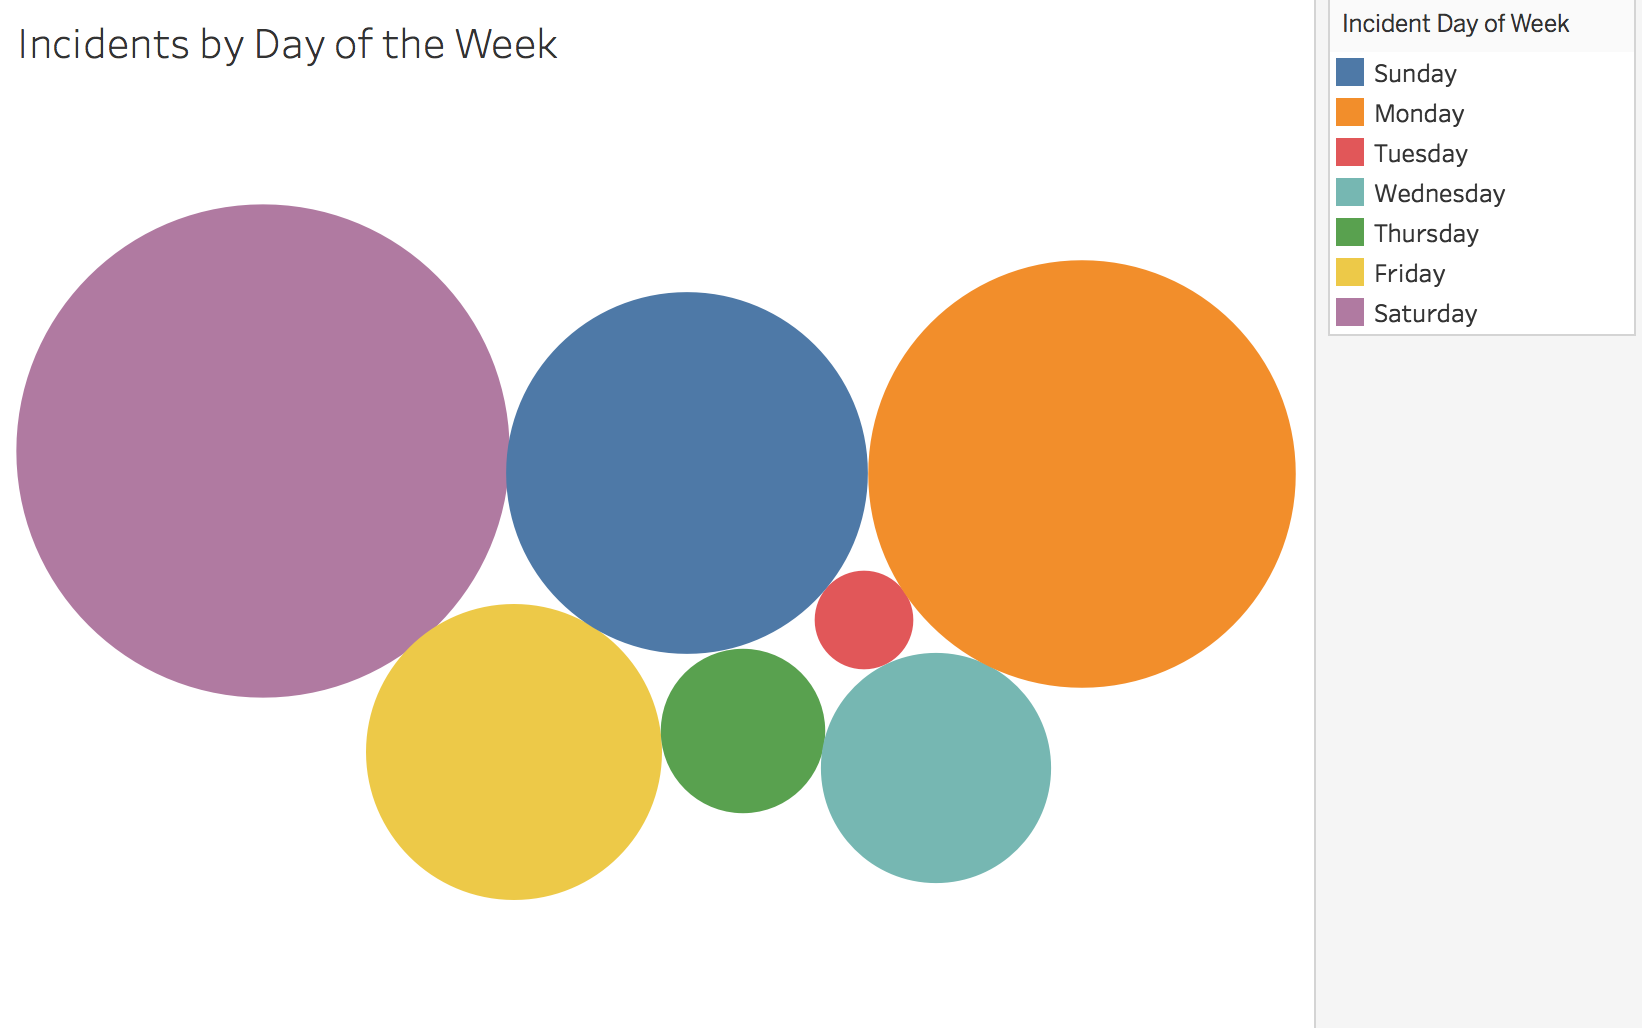
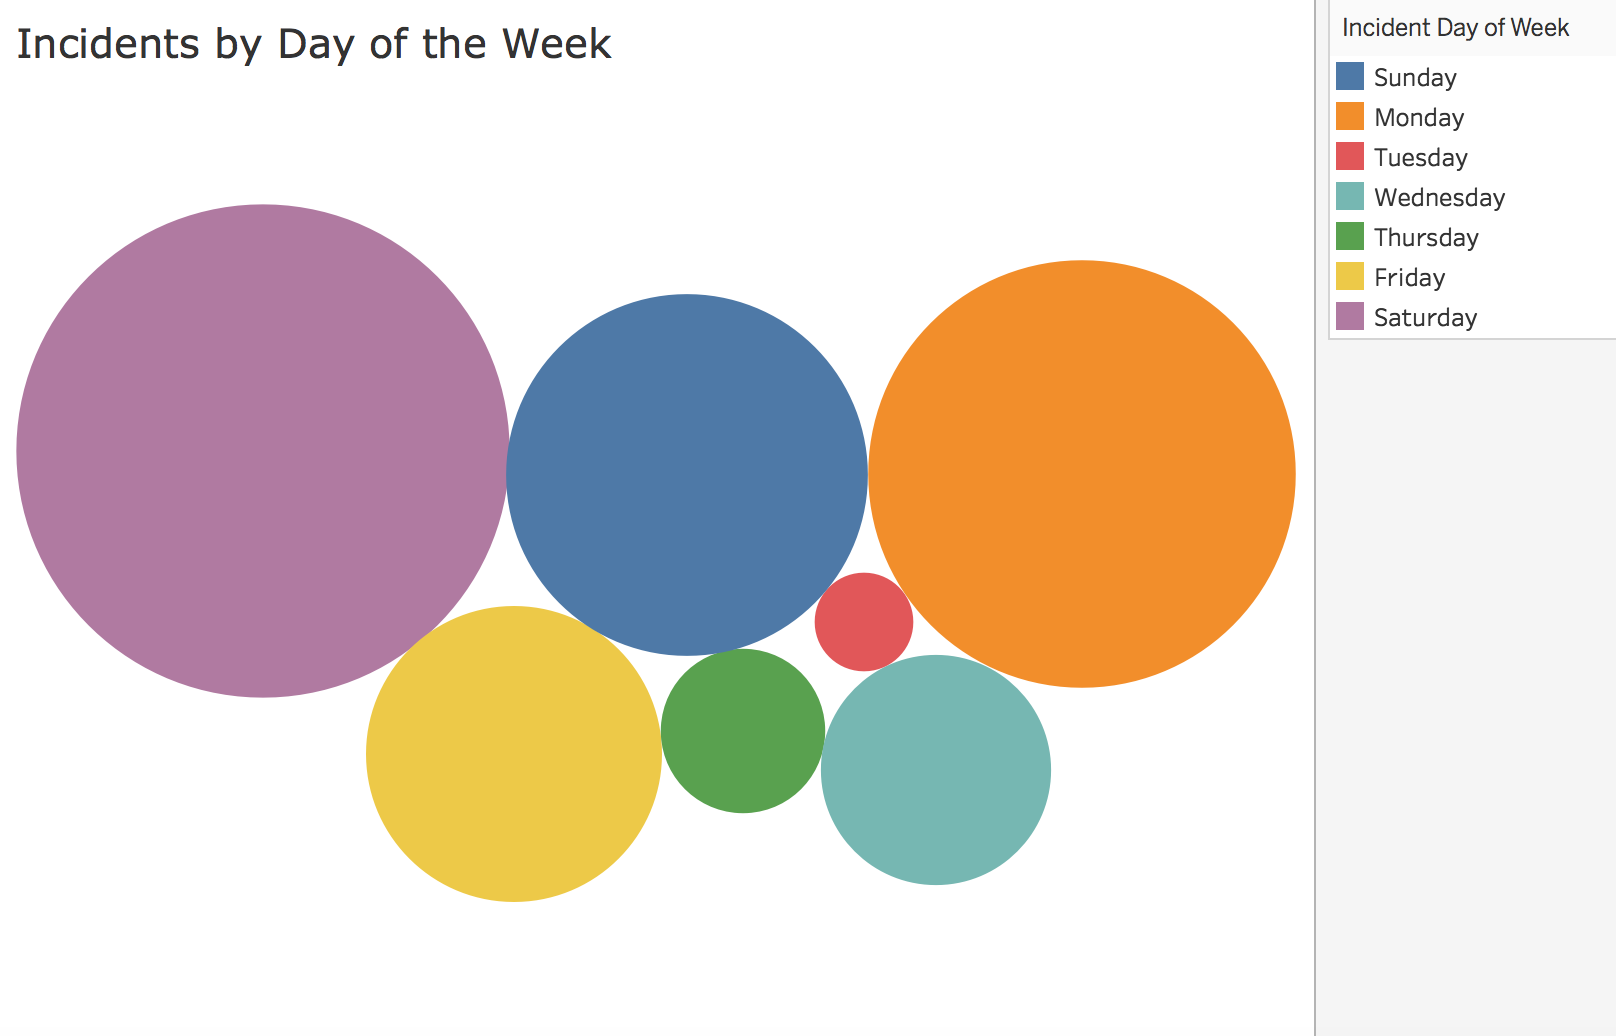
adding text

diff --git a/svg3.js b/svg3.js
@@ -25,7 +25,7 @@ var drawLine = function(){
         top:    50,
         right:  45, // leave space for y-axis
         bottom: 40, // leave space for x-axis
-        left:   20
+        left:   30
     };
 
     let bounds = svg.node().getBoundingClientRect();
@@ -41,7 +41,7 @@ var drawLine = function(){
 
     var x = d3.scaleBand()
         .domain(days)
-        .rangeRound([0, plotWidth]);
+        .rangeRound([45, plotWidth]);
 
     var y = d3.scaleLinear()
         .domain([countMin,countMax])
@@ -57,7 +57,7 @@ var drawLine = function(){
         plot.attr("transform", "translate(" + margin.left + "," + margin.top + ")");
     }
 
-    var yAxis = d3.axisLeft(y);
+    var yAxis = d3.axisLeft(y).ticks(10);
     var xAxis = d3.axisBottom(x);
 
 
@@ -90,87 +90,31 @@ var drawLine = function(){
         .y(function(d) { return y(d.value); })
 
     var dayentries = dayMap.entries();
-    graph.append("path").attr("class", "line").attr("d", valueline(dayentries));;
+    graph.append("path").attr("class", "line").attr("d", valueline(dayentries));
 
-}
+    svg.append("text")
+        .attr("x", 15)
+        .attr("y", 0 + (margin.top / 2))
+        .style("font-size", "17pt")
+        .style("font-family", "'Roboto', sans-serif")
+        .text("Number of Incidents by Date");
 
+    svg.append("text")
+        .attr("x", (plotWidth / 1.8))
+        .attr("y", 0 + (margin.top))
+        .attr("text-anchor", "middle")
+        .style("font-size", "14px")
+        .style("font-family", "'Roboto', sans-serif")
+        .text("Incident date");
 
-// dayMap = d3.map();
-// d3.csv("incident12-1.csv").then(function(d){
-//
-//     var parsedData = parseData(d)
-//     drawLine(parsedData)
-// });
-//
-// function parseData(data) {
-//     var arr = [];
-//     incedentDateParse = d3.timeParse("%Y/%m/%d");
-//
-//
-//     for(var i in data){
-//         var date = incedentDateParse(data[i]["Incident Date"])
-//         if (date !== null){
-//             arr.push(
-//                 {
-//                     date: date.getDate(), //date
-//                     value: 1 //convert string to number
-//                 });
-//         }
-//     }
-//
-//     return arr;
-// }
-//
-// function drawLine(data){
-//     var margin = { top: 20, right: 20, bottom: 30, left: 50 };
-//     var svg = d3.select('svg');
-//
-//     let bounds = svg.node().getBoundingClientRect();
-//     var width = bounds.width - margin.right - margin.left;
-//     var height = bounds.height - margin.top - margin.bottom;
-//
-//         svg.attr("width", width)
-//         .attr("height", height);
-//
-//     // var g = svg.append("g")
-//     //     .attr("transform",
-//     //         "translate(" + margin.left + "," + margin.top + ")"
-//     //     );
-//     //
-//     // // var x = d3.scaleTime().rangeRound([0, width]);
-//     // // var y = d3.scaleLinear().rangeRound([height, 0]);
-//     //
-//     // var x = d3.scaleTime()
-//     //     .domain(days)
-//     //     .rangeRound([0, width]);
-//     //
-//     // var y = d3.scaleLinear()
-//     //     .domain([countMax, countMin])
-//     //     .range([height, 0])
-//     //     .nice();
-//     //
-//     // var yaxis = d3.axisLeft(y);
-//     // var xaxis = d3.axisBottom(x);
-//     //
-//     // var line = d3.line()
-//     //     .x(function(d) { return x(d.date)})
-//     //     .y(function(d) { return y(d.value)})
-//     // // x.domain(d3.extent(data, function(d) { return d.date }));
-//     // // y.domain(d3.extent(data, function(d) { return d.value }));
-//     //
-//     // g.append("g")
-//     //     .attr("transform", "translate(0," + height + ")")
-//     //     .call(d3.axisBottom(x))
-//     //     .select(".domain")
-//     //     .remove();
-//     //
-//     // g.append("g")
-//     //     .call(d3.axisLeft(y))
-//     //     .append("text")
-//     //     .attr("fill", "#000")
-//     //     .attr("transform", "rotate(-90)")
-//     //     .attr("y", 6)
-//     //     .attr("dy", "0.71em")
-//     //     .attr("text-anchor", "end")
-//     //     .text("Price ($)");
-// }
+    svg.append("text")
+        .attr("transform", "rotate(-90)")
+        .attr("y",  10)
+        .attr("x",0 - (plotHeight / 2)-55)
+        .attr("dy", "1em")
+        .style("text-anchor", "middle")
+        .style("font-size", "10pt")
+        .style("font-family", "'Roboto', sans-serif")
+        .text("Number of Records");
+
+};

diff --git a/svg2.js b/svg2.js
@@ -5,6 +5,10 @@ d3.csv("incident12-1.csv", dayOfWeekRow).then(function(d){
 });
 
 
+/*
+ sources:
+ https://bl.ocks.org/carlvlewis/53d42df2300231c1daacdaf9067043c0
+*/
 
 var drawBubbleMap = function(){
     var svg = d3.select("body").select("svg");
@@ -38,30 +42,60 @@ var drawBubbleMap = function(){
         .data(pack(root).leaves())
         .enter().append("g")
         .attr("class", "node")
-        .attr("transform", function(d) { return "translate(" + d.x + "," + d.y + ")"; });
+        .attr("transform", function(d, i) {
+            console.log("x "+d.x+" " + "y "+d.y)
+            switch (d.data.key){
+                case "Saturday":
+                    return "translate(" + (d.x-35) + "," + d.y + ")";
+                case "Sunday":
+                    return "translate(" + (d.x-3) + "," + d.y + ")";
+                case "Monday":
+                    return "translate(" + (d.x+220) + "," + (d.y-122) + ")";
+                case "Tuesday":
+                    return "translate(" + (d.x+135) + "," + (d.y+180) + ")";
+                case "Wednesday":
+                    return "translate(" + (d.x+320) + "," + (d.y+260) + ")";
+                case "Thursday":
+                    return "translate(" + (d.x-18   ) + "," + (d.y+245) + ")";
+                case "Friday":
+                    return "translate(" + (d.x+145) + "," + (d.y-5) + ")";
+                default:
+                    break;
+            }
+        });
 
     node.append("circle")
         .attr("id", function(d) {
             console.log(d.id)
             return d.id; })
         .attr("r", function(d) {
-            console.log(d.data.key+ " "+ d.r);
-            return d.r;
+            switch (d.data.key) {
+                case "Saturday":
+                    return (1.45*(d.r));
+                case "Sunday":
+                    return d.r;
+                case "Monday":
+                    return (1.2*(d.r));
+                case "Tuesday":
+                    return (.4*(d.r));
+                case "Wednesday":
+                    return (.79*(d.r));
+                case "Thursday":
+                    return (.55*(d.r));
+                case "Friday":
+                    return (.95*(d.r));
+                default:
+                    break;
+            }
         })
         .style("fill", function(d) { return color(d.data.key); });
-
-    node.append("text")
-        .text(function(d) {
-            if (d.data.value > 748){
-                return d.data.key;
-            }
-            return "";});
 
     var legend = svg.selectAll(".legend")
         .data(data).enter()
         .append("g")
         .attr("class","legend")
-        .attr("transform", "translate(" + 780 + "," + 120+ ")");
+        .attr("transform", "translate(" + 750 + "," + 80+ ")")
+
 
 
     legend.append("rect")
@@ -87,4 +121,11 @@ var drawBubbleMap = function(){
         .attr("y",-10)
         .text("Days of the Week")
         .attr("font-size", "17px");
+
+    svg.append("text")
+        .attr("x", 15)
+        .attr("y", 30)
+        .style("font-size", "17pt")
+        .style("font-family", "'Roboto', sans-serif")
+        .text("Incidents by Day of the Week");
 }

diff --git a/svg1.js b/svg1.js
@@ -46,7 +46,12 @@ var drawBarChart = function(){
     }
 
     let xAxis = d3.axisBottom(districtScale);
-    let yAxis = d3.axisLeft(countScale);
+    let yAxis = d3.axisLeft(countScale).ticks(5);
+
+    function make_y_gridlines() {
+        return d3.axisLeft(y)
+            .ticks(5)
+    }
 
     if (plot.select("g#y-axis").size() < 1) {
         let xGroup = plot.append("g").attr("id", "x-axis");
@@ -57,6 +62,7 @@ var drawBarChart = function(){
         let yGroup = plot.append("g").attr("id", "y-axis");
         yGroup.call(yAxis);
         yGroup.attr("transform", "translate(" + 45 + ",0)");
+
     } else {
         plot.select("g#y-axis").call(yAxis);
     }
@@ -96,9 +102,11 @@ var drawBarChart = function(){
     svg.append("text")
         .attr("transform", "rotate(-90)")
         .attr("y",  10)
-        .attr("x",0 - (plotHeight / 2)-45)
-        .attr("dy", "1em")
+        .attr("x",0 - (plotHeight / 2)-50)
+        .attr("dy", ".5em")
         .style("text-anchor", "middle")
+        .style("font-size", "10pt")
+        .style("font-family", "'Roboto', sans-serif")
         .text("Number of Records");
 
     // svg.append("text")
@@ -110,12 +118,19 @@ var drawBarChart = function(){
     //     .text("Value");
 
     svg.append("text")
-        .attr("x", (plotWidth / 2))
+        .attr("x", 15)
         .attr("y", 0 + (margin.top / 2))
+        .style("font-size", "17pt")
+        .style("font-family", "'Roboto', sans-serif")
+        .text("Police District Incident Count");
+
+    svg.append("text")
+        .attr("x", (plotWidth / 1.8))
+        .attr("y", 0 + (margin.top))
         .attr("text-anchor", "middle")
-        .style("font-size", "16px")
-        .style("text-decoration", "underline")
-        .text("Value vs Date Graph");
+        .style("font-size", "14px")
+        .style("font-family", "'Roboto', sans-serif")
+        .text("Police District");
 }
 
 d3.csv("incident12-1.csv", policeRow).then(function(d){

diff --git a/visualization2.html b/visualization2.html
@@ -16,6 +16,7 @@
   <script src="https://d3js.org/d3.v5.min.js"></script>
   <script src="base.js"></script>
   <script src="svg2.js"></script>
+  <link href="https://fonts.googleapis.com/css?family=Roboto" rel="stylesheet">
 
 </head>
 
@@ -115,19 +116,19 @@
     <h3>Interpretation</h3>
 
     <p>
-      If appropriate, provide a brief discussion of how to interpret this visualization (e.g. how the data is encoded) and how to interact with this visualization. Some of this discussion may not be necessary depending on the legends provided with the visualization.
+      Here I provided a legend to show you which circle is what day. The larger the circle, the more incidents that happend on that day.
     </p>
 
     <h3>Discussion</h3>
 
     <p>
-      If appropriate, provide a brief discussion of the primary goal and findings of the visualization, any challenges encountered creating the visualization, and any other context as required by the assignment.
+      Getting sizes and placement was very difficult in matching my tableu. You really need to think about x and y coordinate and where that point of reference is.
     </p>
 
     <h3>Credit</h3>
 
     <p>
-      If appropriate, provide credit for the dataset, any code used, and design inspirations here. Unsufficient discussion here is a violation of the <a href="/syllabus.html#cheating-policy">academic honesty policy</a> and may result in an F grade for the assignment or the <em>entire</em> course.
+      This <a href="https://bl.ocks.org/carlvlewis/53d42df2300231c1daacdaf9067043c0">code</a> block helped me how to draw and plot bubbles on a graph.
     </p>
   </div>
 </section>

diff --git a/visualization3.html b/visualization3.html
@@ -16,6 +16,7 @@
   <script src="https://d3js.org/d3.v5.min.js"></script>
   <script src="base.js"></script>
   <script src="svg3.js"></script>
+  <link href="https://fonts.googleapis.com/css?family=Roboto" rel="stylesheet">
 
 
 
@@ -124,13 +125,13 @@
     <h3>Discussion</h3>
 
     <p>
-      If appropriate, provide a brief discussion of the primary goal and findings of the visualization, any challenges encountered creating the visualization, and any other context as required by the assignment.
+      I had a blocker in creating the line. I had put by data in a d3.map and I couldn't get the data the way the line create wanted. I found out that I needed to call .entries on the map to get my data the way i needed. If appropriate, provide a brief discussion of the primary goal and findings of the visualization, any challenges encountered creating the visualization, and any other context as required by the assignment.
     </p>
 
     <h3>Credit</h3>
 
     <p>
-      If appropriate, provide credit for the dataset, any code used, and design inspirations here. Unsufficient discussion here is a violation of the <a href="/syllabus.html#cheating-policy">academic honesty policy</a> and may result in an F grade for the assignment or the <em>entire</em> course.
+      A combination of this <a href="https://bl.ocks.org/gordlea/27370d1eea8464b04538e6d8ced39e89">code</a> and Sophie Engle's code I used to help me draw the line chart.
     </p>
   </div>
 </section>

diff --git a/visualization1.html b/visualization1.html
@@ -16,6 +16,7 @@
   <script src="https://d3js.org/d3.v5.min.js"></script>
   <script src="base.js"></script>
   <script src="svg1.js"></script>
+  <link href="https://fonts.googleapis.com/css?family=Roboto" rel="stylesheet">
 
 
 
@@ -129,7 +130,7 @@
     <h3>Credit</h3>
 
     <p>
-      If appropriate, provide credit for the dataset, any code used, and design inspirations here. Unsufficient discussion here is a violation of the <a href="/syllabus.html#cheating-policy">academic honesty policy</a> and may result in an F grade for the assignment or the <em>entire</em> course.
+      Mainly used Sophie Engle's instruction code for her charts.
     </p>
   </div>
 </section>

diff --git a/main.css b/main.css
@@ -125,3 +125,7 @@ path {
 .img-with-text p {
     padding-bottom: 30px;
 }
+
+g.legend{
+    border: 1px solid lightgray;
+}
